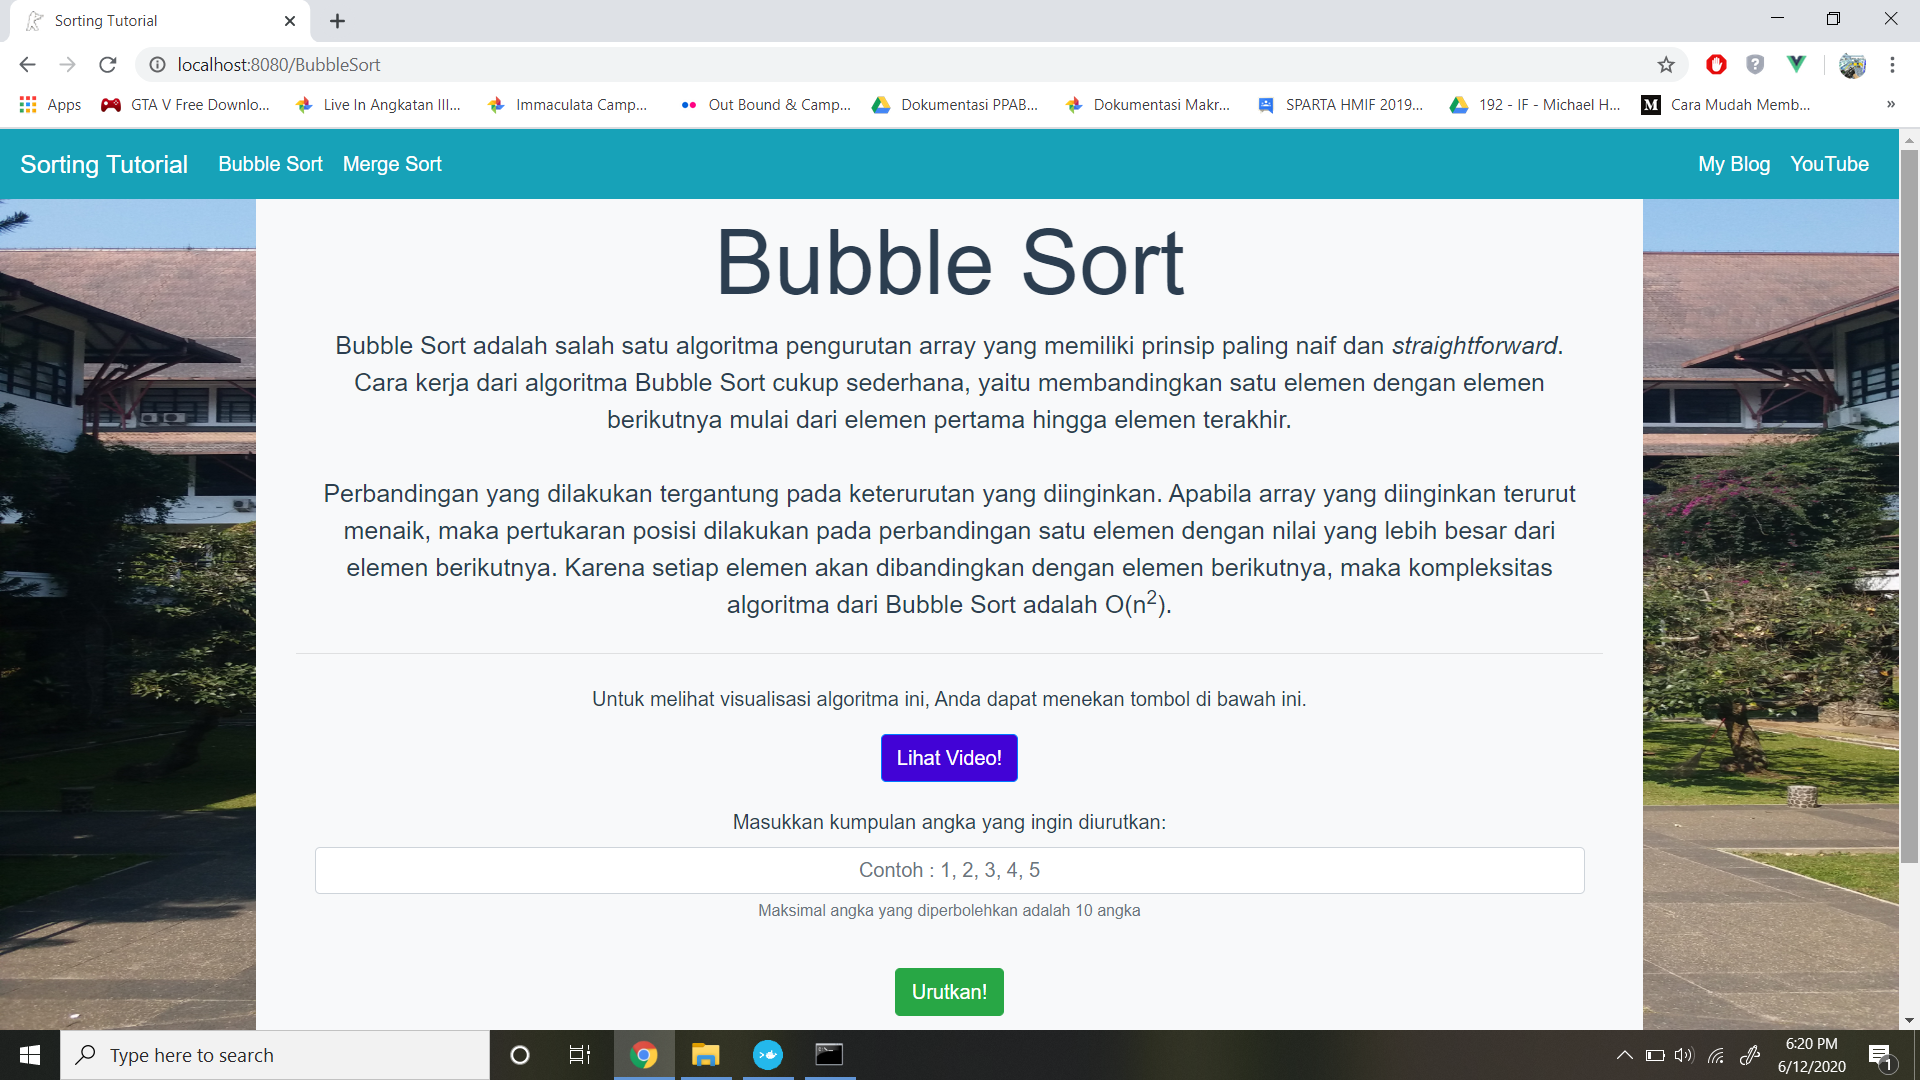
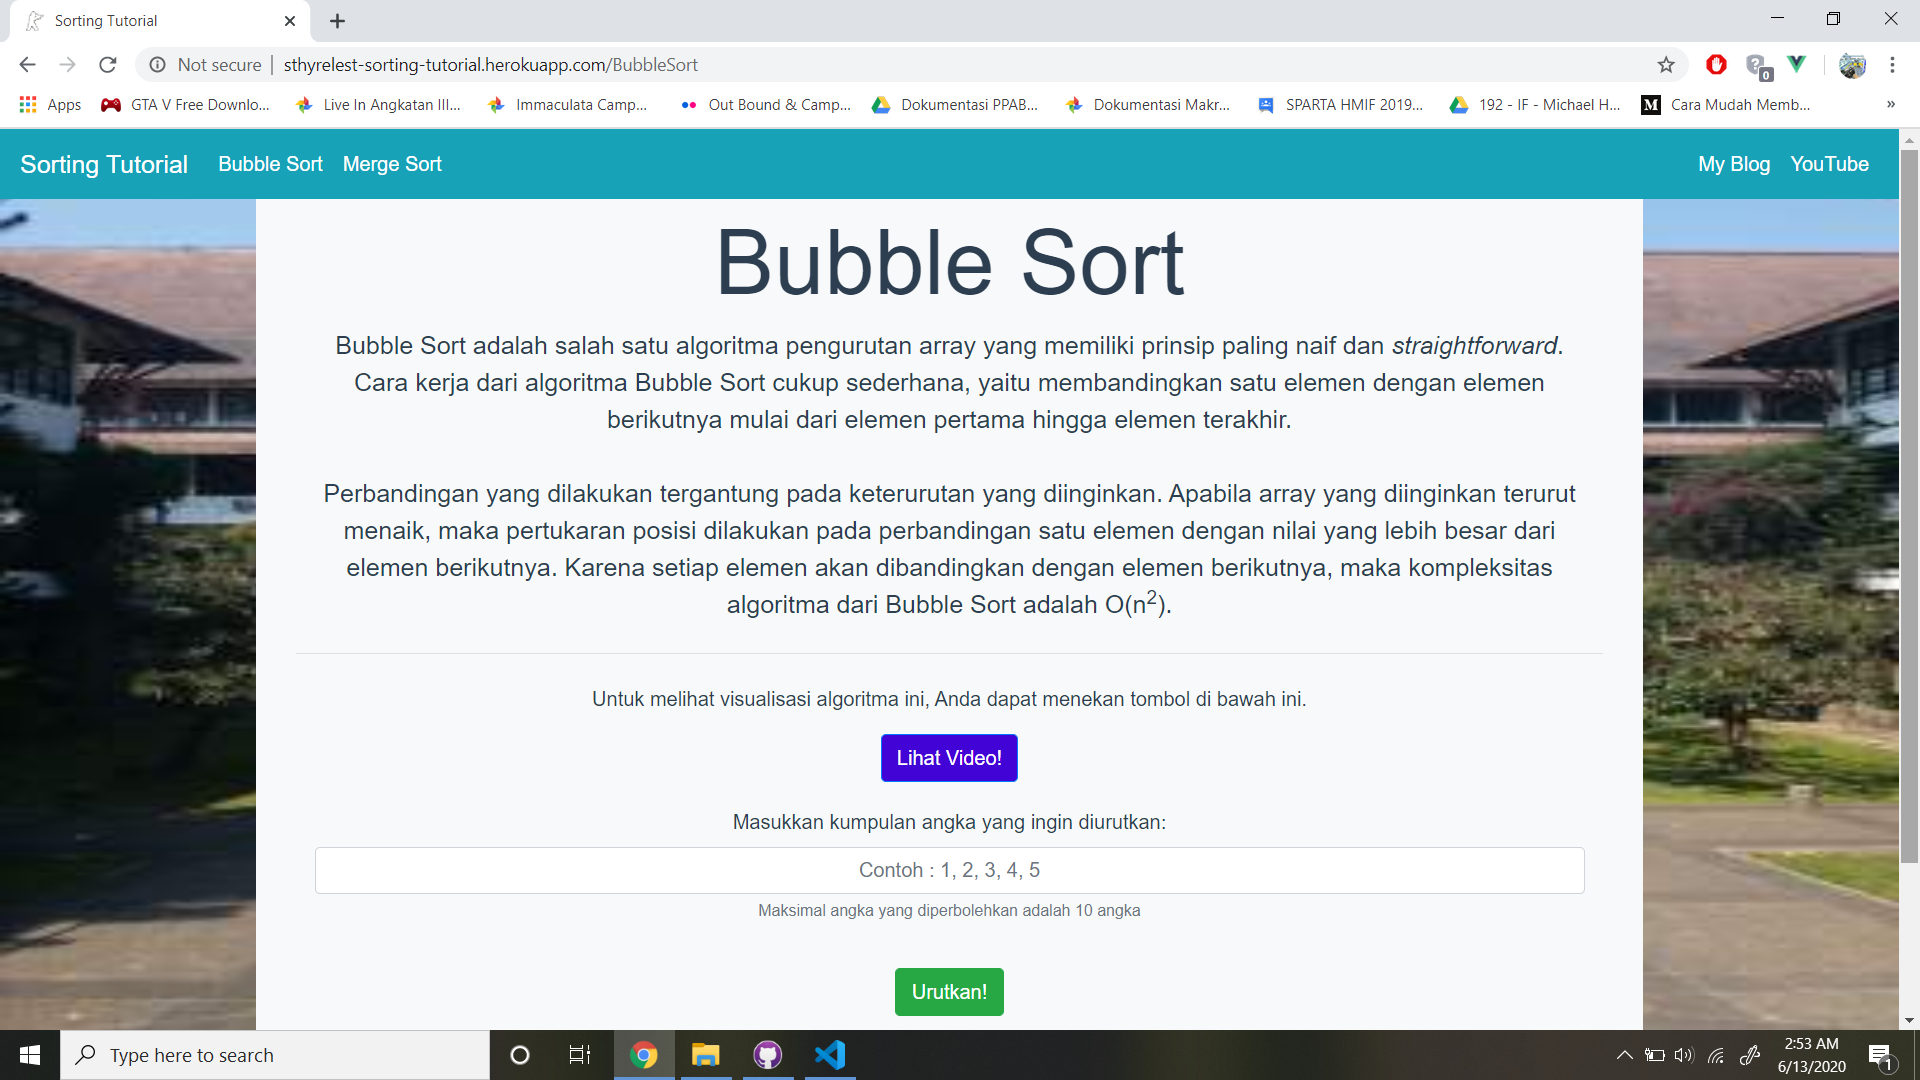
Finishing and update README.md

diff --git a/README.md b/README.md
@@ -8,8 +8,12 @@ Sorting Tutorial akan memberikan ulasan dan ilustrasi dua buah algoritma sorting
 - Merge Sort
 
 ## Website Sorting Tutorial
-Bonus berhasil dibuat dengan melakukan docker dan deploy website. Website Sorting Tutorial dapat diakses secara *online* pada laman berikut ini:
-*Coming Soon*
+<p align="center">
+   <img align="center" src="assets/Home-Page.png">
+   <i>Gambar 1: Tampilan Home dari website Sthyrelest Sorting Tutorial</i>
+</p>
+Bonus berhasil dibuat dengan melakukan docker dan deploy website. Website Sorting Tutorial dapat diakses secara *online* pada laman berikut ini
+http://sthyrelest-sorting-tutorial.herokuapp.com/
 
 ## Getting Started
 Instruksi-instruksi berikut ini akan membimbing Anda dalam tahap instalasi aplikasi dan cara menjalankannya.
@@ -19,7 +23,8 @@ Berikut ini adalah persiapan environment yang dibutuhkan untuk menjalankan aplik
 ```
 - Node.js untuk backend website
 - Vue.js untuk frontend website dan framework
-- Docker untuk menyimpan website dalam container
+- Docker untuk menyimpan aplikasi website dalam container
+- Heroku untuk menyediakan layanan website secara gratis
 ```
 
 ### Installing
@@ -28,9 +33,9 @@ Berikut ini adalah langkah-langkah dalam penginstallan aplikasi:
    ```
    https://nodejs.org/en/download/
    ```
-2. Untuk menginstall project ini, jalankan command berikut pada directory ./client
+2. Untuk melakukan proses deploying website, diperlukan aplikasi heroku yang dapat diunduh pada laman berikut ini.
    ```
-   npm install
+   https://devcenter.heroku.com/articles/heroku-cli#download-and-install
    ```
 3. Untuk menginstall Docker, lakukan pengunduhan Docker Toolbox terlebih dahulu dari laman berikut ini.
    ```
@@ -38,16 +43,46 @@ Berikut ini adalah langkah-langkah dalam penginstallan aplikasi:
    ```
 
 ## How to Run Program
+### 1. Deployed Website
+Hasil aplikasi web sudah dideploy menggunakan aplikasi heroku. Anda bisa langsung menggunakan aplikasi web tersebut dengan mengunjungi
+laman http://sthyrelest-sorting-tutorial.herokuapp.com/
+
+### 2. Menjalankan secara lokal
 Untuk menjalankan aplikasi web secara lokal, berikut ini adalah langkah-langkah dalam menjalankan aplikasi.
-1. Buka command prompt lalu jalankan command berikut ini.
+1. Lakukan instalasi project terlebih dahulu dengan menjalankan command berikut ini.
+   ```
+   npm install
+   ```
+2. Buka command prompt lalu jalankan command berikut ini.
    ```
    npm run serve
    ```
-2. Setelah kompilasi berhasil, bukalah browser kemudian kunjungi laman berikut ini.
+3. Setelah kompilasi berhasil, bukalah browser kemudian kunjungi laman berikut ini.
    ```
    localhost:8080
    ```
-3. Selamat mencoba aplikasi Sorting Tutorial!
+4. Selamat mencoba aplikasi Sorting Tutorial!
+
+### 3. Menggunakan Docker
+Untuk menjalankan aplikasi web menggunakan docker, berikut ini adalah langkah-langkah dalam menjalankan aplikasi.
+1. Lakukan pembuatan image berdasarkan dockerfile yang tersedia dengan menjalankan command berikut ini.
+   ```
+   docker build -t sorting:latest .
+   ```
+2. Tunggu hingga pembuatan image berdasarkan dockerfile berhasil dibuat.
+3. Untuk menjalankan docker image sorting:latest, jalankan command berikut ini.
+   ```
+   docker 
+   ```
+4. Untuk mengunjungi aplikasi web tersebut, cek terlebih dahulu IP address dari docker machine dengan mengetikkan command berikut ini.
+   ```
+   docker-machine ip default
+   ```
+5. Salin IP yang muncul dari command tersebut, kemudian jalankan browser dan kunjungi laman berikut ini. Misalkan IP yang muncul adalah 192.168.99.102, maka
+   ```
+   192.168.99.102:8080
+   ```
+6. Selamat mencoba aplikasi Sorting Tutorial!
 
 ## Guideline: How to Use
 Berikut ini adalah cara menggunakan website Sorting Tutorial.
@@ -60,10 +95,21 @@ Berikut ini adalah cara menggunakan website Sorting Tutorial.
 5. Anda juga bisa melihat video ilustrasi masing-masing algoritma pengurutan pada tombol Lihat Video.
 6. Bila ingin mengganti algoritma pengurutan, klik pada algoritma yang diinginkan pada tombol navigasi.
 
+## Screenshot Aplikasi
+<p align="center">
+   <img align="center" src="assets/Bubble-Sort-Page.png">
+   <i>Gambar 2: Menu Algoritma Bubble Sort</i>
+</p>
+<p align="center">
+   <img align="center" src="assets/Result-Page.png">
+   <i>Gambar 3: Menu Hasil Pengurutan Bubble Sort</i>
+</p>
+
 ## Built With
 * [Node.js](https://www.python.org/) - Back End dari Website
 * [Vue.js](https://vuejs.org/) - Front End dan Router
-* [Netlify](https://www.netlify.com/) - Deploy Website
+* [Boostrap](https://bootstrap-vue.org/docs/components) - Front End Style and Components
+* [Heroku](https://www.heroku.com/) - Deploy Website
 * [Docker](https://github.com/docker/toolbox/releases) - Docker Website
 
 ## Referensi
@@ -73,6 +119,8 @@ Berikut ini adalah cara menggunakan website Sorting Tutorial.
 4. Algoritma Divide and Conquer : https://informatika.stei.itb.ac.id/~rinaldi.munir/Stmik/2019-2020/Algoritma-Divide-and-Conquer-(2020).pdf
 5. Bubble Sort : https://www.geeksforgeeks.org/bubble-sort/
 6. Merge Sort : https://www.geeksforgeeks.org/merge-sort/
+7. Dockerize Aplikasi Vue.js : https://nothinux.id/dockerize-aplikasi-vue-js/
+8. How to Deploy a Vue CLI 3 Application to Heroku : https://www.youtube.com/watch?v=yfW9knTBR90&
 
 ## Author
 **13518056 - Michael Hans** - *Designer, Programmer, and Tester*
